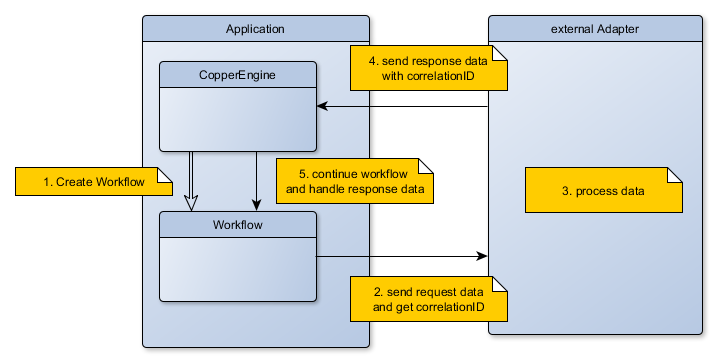
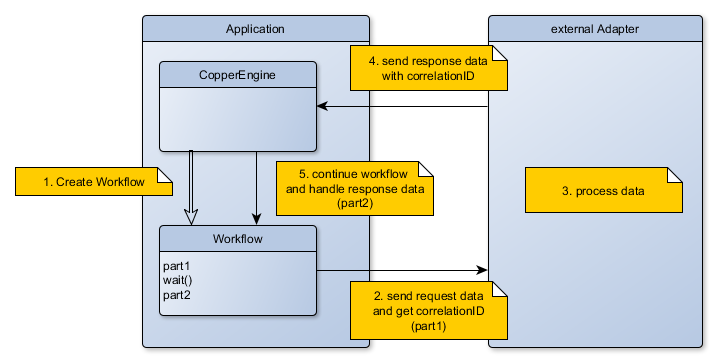
split tutorial

diff --git a/docs/gettingStarted.md b/docs/gettingStarted.md
@@ -13,24 +13,26 @@ A quickstarter example project for cooper-engine.
 
 copper provides a performant solution for the following business workflow:
 
-- the application needs to handle many workflows in a performant way.
-- Each workflow sends requests to an external asynchronous adapter. 
-- the adapter provides synchronous a correlationID for later references.
-- After some time the adapter sends back the response data together with the correlationID
-- The workflow continues execution and handles the response data.
+0. the application needs to handle many workflows in a performant way.
+1. the copper provides the workflow instance
+2. Each workflow sends requests to an external asynchronous adapter. 
+3. the adapter provides synchronous a correlationID for later references.
+4. After some time the adapter sends back the response data together with the correlationID
+5. The workflow continues execution and handles the response data.
 
 ![Overview](/images/gs-copper-overview.png)
 
-The following features of copper engine will be demonstrated in this starter project:
+The following features of copper engine will be demonstrated in the copper-starter project:
 
 - copper is a workflow engine that provides unlimited "threads" 
-- all threads will be serialized transient or persistent
-- workflows are coded in java with wait()-continuation breaks
-- There are limitations for the supported java syntax
-- workflows have typesafe RequestData and Response object.
+	- all threads will be serialized transient or persistent
 - workflow code is parsed, compiled and instrumented at runtime
+- workflows are coded in java with wait()-continuation breaks
+- workflows have typesafe RequestData and Response object.
+- There are limitations for the supported java syntax
 - workflows can be updates at runtime, and provide versioning support
 - workflows have name and version attributes to support old long running jobs
+- IDE Breakpoints in Workflow-files works fine for debugging
 - How to inject Services into workflow
 - How to configure the processing engine
 
@@ -66,9 +68,9 @@ gradle assemble
 
 If the test run succeeds, your are prepared for the tutorial.
 
-### Tutorial
+### Getting Started Tutorial
 
-##### Structure of copper-starter project
+##### Structure of the copper-starter project
 
 copper-starter contains two examples:
 
@@ -81,125 +83,6 @@ copper-starter contains two examples:
     - engine, sender and adapter are separated java programs
     - persistent copper engine stores all threads in derby database
 
-### Hello World Example
 
-![HelloWorldApplication Overview](/images/gs-copper1.png)
-
-What you need to know:
-
-- HelloWorldTestApplication.java initializes the transient copper engine and requests 5000 workflows. 
-- Copper Enigne is configured and initialized by TransientEngineFactory.java
-- src/main/workflow/ contains source code for the workflow Java Files and is monitored for changes during execution.
-
-- each workflow sends request data to a mocked "external" adapter and gets a ticket correlationID.
-- the workflow execution stops and the java object is serialized and stored in memory.
-- The adapter responses by calling HelloWorldService with the correlationId and the response
-- HelloWorldService informs the copper engine.
-- the corresponding workflow is deserialized and the workflow continues.
-
-
-
-
-##### Feature 1: copper provides "unlimited" threads
-
-Copper serializes each workflow and the thread is freed for other tasks. Copper can handle "unlimited" workflow threads.
-
-Increase the number of workflow thread to 100000. (HelloWorldTestApplication.java (line: 28)
-
-```Java
-	private static int NUMBER_OF_WORKFLOWS = 100000;
-```
-
-Run the application.
-
-	gradle --info runHello
-
-
-##### Feature 2: workflow code can be changed during execution
-
-Open HelloWorldWorkFlow.java in Editor.
-Run the application with 100.000 workflows.
-	
-	gradle --info runHello
-
-During execution uncomment HelloWorldWorkFlow.java line: 38
-```Java
-	logger.info(correlationId+ ": workflow   part one: Hello World!");
-```
-
-After maximum 5 sec you will see the additional log entry in the logout.
-
-##### Feature 3: workflow uses wait() to suspend execution until correlationId is reactivated by the copper engine.
-
-```Java
- @Override
-    public void main() throws Interrupt {
-        final String correlationId = HelloWorldAdapter.get().asyncSendHelloWorld(getData());
-        logger.info(correlationId+ ": workflow    break: Hello World!");
-        logger.info(correlationId+ ": workflow   part one: Hello World!");
-
-        wait(WaitMode.ALL, 5 * 60 * 60 * 1000, correlationId);
-        (...)
-```
-
-wait() can wait for one or mutliple corellationIds and continue, if one or all IDs are handled.
-A timeout (in ms) can be specified for the maximum waiting time.
-
-```Java
-        wait(WaitMode.ONE, 5 * 60 * 60 * 1000, correlationId, correlationId2, correlationId3);
-```
-
-If  `HelloWorldService.sendResponse(String correlationId, boolean success, String answer)` is called by the external system, it informs the copper engine with the response.
-
-```Java
-    public void sendResponse(String correlationId, boolean success, String answer) {
-        HelloWorldResponse payload = new HelloWorldResponse(success, answer);
-        Response<HelloWorldResponse> response = new Response<HelloWorldResponse>(correlationId, payload, null);
-        Acknowledge.DefaultAcknowledge ack = new Acknowledge.DefaultAcknowledge();
-
-        engine.notify(response, ack);
-        ack.waitForAcknowledge();
-    }
-```
-
-The workflow continues and can retrieve the response and handle it.
-```Java
-        final Response<HelloWorldResponse> response = getAndRemoveResponse(correlationId);
-
-        logger.info(correlationId + ": workflow continue: " + response.getResponse().getAnswer());
-```
-After completing the workflow the engine gets an acknowledge for the successful completion.
-
-##### Feature 4: Requirements for a new workflow
-
-```Java
-@WorkflowDescription(alias = "HelloWorldWorkFlow", majorVersion = 1, minorVersion = 0, patchLevelVersion = 0)
-public class HelloWorldWorkFlow extends Workflow<HelloWorldRequest> {
-
-
-    @Override
-    public void main() throws Interrupt {
-    	...
-    }
-
-}
-```
-
-New workflows have the following requirements:
-	* the source code of the workflow needs to be found by the copper engine either in the classpath or in a specified source directory
-	* only parts of the Java 7 syntax is supported.
-	* included Java fields needs to be serializable.
-	* needs to extend org.copperengine.core.Workflow or org.copperengine.core.persistent.PersistentWorkflow
-	* include workflow logic in `public void main() throws Interrupt {}`
-	* wait() stops the execution with correlationId and timeout
-	* copper starts continuation with correlationID and workflow can get response data with getAndRemoveResponse(correlationId)
-	* each Workflow has a name and version annotation for reference in the engine.
-
-The workflow needs to be created by the engine with a name reference (and optional version)
-
-```Java
-        engine.run("HelloWorldWorkFlow", getNewData());
-```
-
-
-
+<h3><a href="tutorial1.html">Start with Tutorial part 1 HelloWorld Example</a></h3>
+<h3><a href="tutorial1.html">Start with Tutorial part 2 Orchestration Example</a></h3>

diff --git a/docs/tutorial1.md b/docs/tutorial1.md
@@ -1,0 +1,158 @@
+---
+layout: markdown
+title: COPPER - Tutorial Part 1
+tabname: docs
+---
+
+Tutorial part 1
+===============
+
+
+
+### Hello World Example
+
+
+What you need to know:
+
+- src/main/workflow/ contains source code for the workflow Java Files and is monitored for changes during execution.
+- each workflow sends request data to a mocked "external" adapter and gets a ticket correlationID.
+- the workflow execution stops and the java object is serialized and stored in memory.
+- The adapter responses by calling HelloWorldService with the correlationId and the response
+- HelloWorldService informs the copper engine.
+- the corresponding workflow is deserialized and the workflow continues.
+
+![HelloWorldApplication Overview](/images/gs-copper1.png)
+
+
+
+#### Step 1: copper provides "unlimited" threads
+
+Copper serializes each workflow and the thread is freed for other tasks. Copper can handle "unlimited" workflow threads.
+
+Increase the number of workflow thread to 100000. (HelloWorldTestApplication.java (line: 28)
+
+```Java
+	private static int NUMBER_OF_WORKFLOWS = 100000;
+```
+
+Run the application.
+
+	gradle --info runHello
+
+
+#### Step 2: workflow code can be changed during execution
+
+Open HelloWorldWorkFlow.java in Editor.
+Run the application with 100.000 workflows.
+	
+	gradle --info runHello
+
+During execution uncomment HelloWorldWorkFlow.java line: 38
+
+	logger.info(correlationId+ ": workflow   part one: Hello World!");
+
+
+After maximum 5 sec you will see the additional log entry in the logout.
+
+#### Step 3: workflow uses wait() to suspend execution
+
+```Java
+ @Override
+    public void main() throws Interrupt {
+        final String correlationId = HelloWorldAdapter.get().asyncSendHelloWorld(getData());
+        logger.info(correlationId+ ": workflow    break: Hello World!");
+
+        wait(WaitMode.ALL, 5 * 60 * 60 * 1000, correlationId);
+        (...)
+```
+
+wait() can wait for one or mutliple corellationIds and continue, if one or all IDs are handled.
+A timeout (in ms) can be specified for the maximum waiting time.
+
+        wait(WaitMode.ONE, 5 * 60 * 60 * 1000, correlationId, correlationId2, correlationId3);
+
+If  `HelloWorldService.sendResponse(String correlationId, boolean success, String answer)` is called by the external system, 
+it informs the copper engine with the response.
+
+```Java
+    public void sendResponse(String correlationId, boolean success, String answer) {
+        HelloWorldResponse payload = new HelloWorldResponse(success, answer);
+        Response<HelloWorldResponse> response = new Response<HelloWorldResponse>(correlationId, payload, null);
+        Acknowledge.DefaultAcknowledge ack = new Acknowledge.DefaultAcknowledge();
+        engine.notify(response, ack);
+        ack.waitForAcknowledge();
+    }
+```
+
+The workflow continues and can retrieve the response and handle it.
+
+```Java
+        final Response<HelloWorldResponse> response = getAndRemoveResponse(correlationId);
+        logger.info(correlationId + ": workflow continue: " + response.getResponse().getAnswer());
+```
+
+After completing the workflow the engine gets an acknowledge for the successful completion.
+
+#### Step 4: How to create a new workflow
+
+```Java
+	@WorkflowDescription(alias = "HelloWorldWorkFlow", majorVersion = 1, minorVersion = 0, patchLevelVersion = 0)
+	public class HelloWorldWorkFlow extends Workflow<HelloWorldRequest> {
+	    @Override
+	    public void main() throws Interrupt {
+	    	(...)
+	    }
+	}
+```
+
+New workflows have the following requirements:
+
+* the source code of the workflow needs to be found by the copper engine either in the classpath or in a specified source directory ("src/workflow/java")
+* only parts of the Java 7 syntax is supported.
+* included Java fields needs to be serializable.
+* needs to extend org.copperengine.core.Workflow or org.copperengine.core.persistent.PersistentWorkflow
+* include workflow logic in `public void main() throws Interrupt {}`
+* wait() stops the execution with correlationId and timeout
+* copper starts continuation with correlationID and workflow can get response data with getAndRemoveResponse(correlationId)
+* each Workflow has a name and version annotation for reference in the engine.
+
+The workflow needs to be created by the engine with a name reference (and optional version)
+
+HelloWorldTestApplication.java
+```Java
+        engine.run("HelloWorldWorkFlow", getNewData());
+```
+
+#### Step 5: WorkFlow with multiple versions
+
+For long running Workflows it might be needed to have the same workflow in mutliple versions.
+We want to change the business logik for new Workflow instances, but still running instances should still complete the workflow with the old business logik.
+
+For this each workflow has @WorkflowDescription annotation with version attributes.
+Per default the engine uses for new Workflow instances the newest version.
+
+* Open HelloWorldWorkFlowV2.java in the Java editor.
+* gradle --info runHello
+* In the editor set the majorversion = 2. 
+* HelloWorldWorkFlowV2.java will now be used for new workflow instances
+
+```Java
+	@WorkflowDescription(alias = "HelloWorldWorkFlow", majorVersion = 2, minorVersion = 0, patchLevelVersion = 0)
+	public class HelloWorldWorkFlowV2 extends Workflow<HelloWorldRequest> {
+	    @Override
+	    public void main() throws Interrupt {
+	    	(...)
+	    }
+	}
+```
+
+#### Step 6: Debug WorkFlow in IDE
+
+If you start HelloWorldTestApplication in an IDE with Debug Mode, you can set Breakpoints inside the Workflow as usual.
+
+#### Step 7: Configure the copper engine
+
+The complete configuration of the copper engine is inside TransientEngineFactory.java:
+
+* 
+
